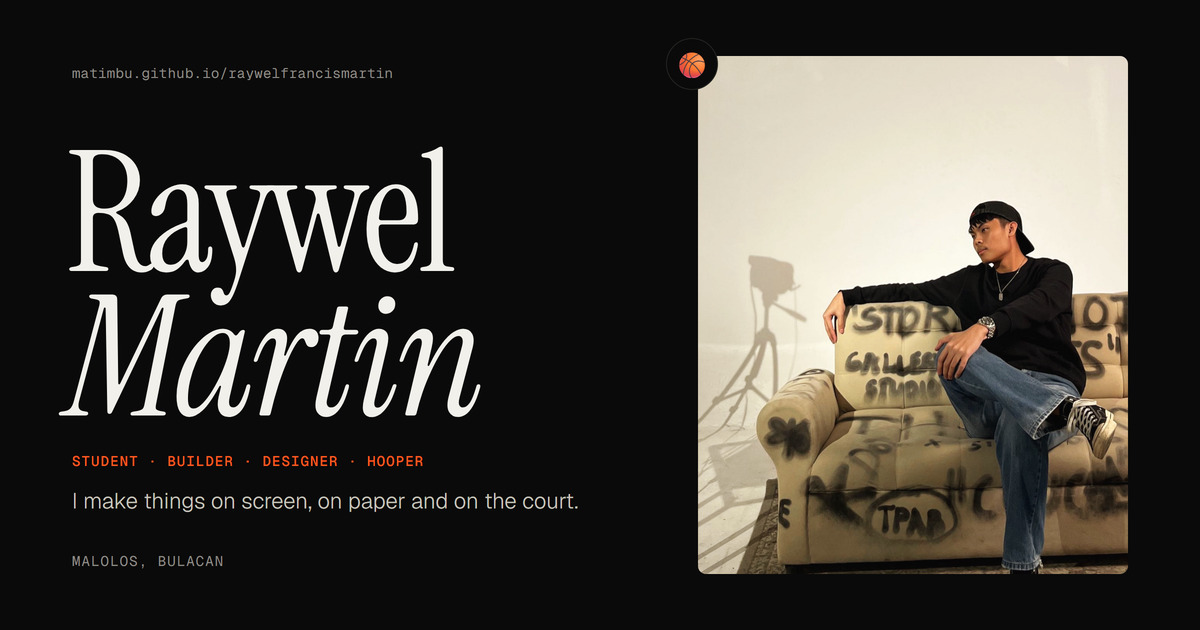
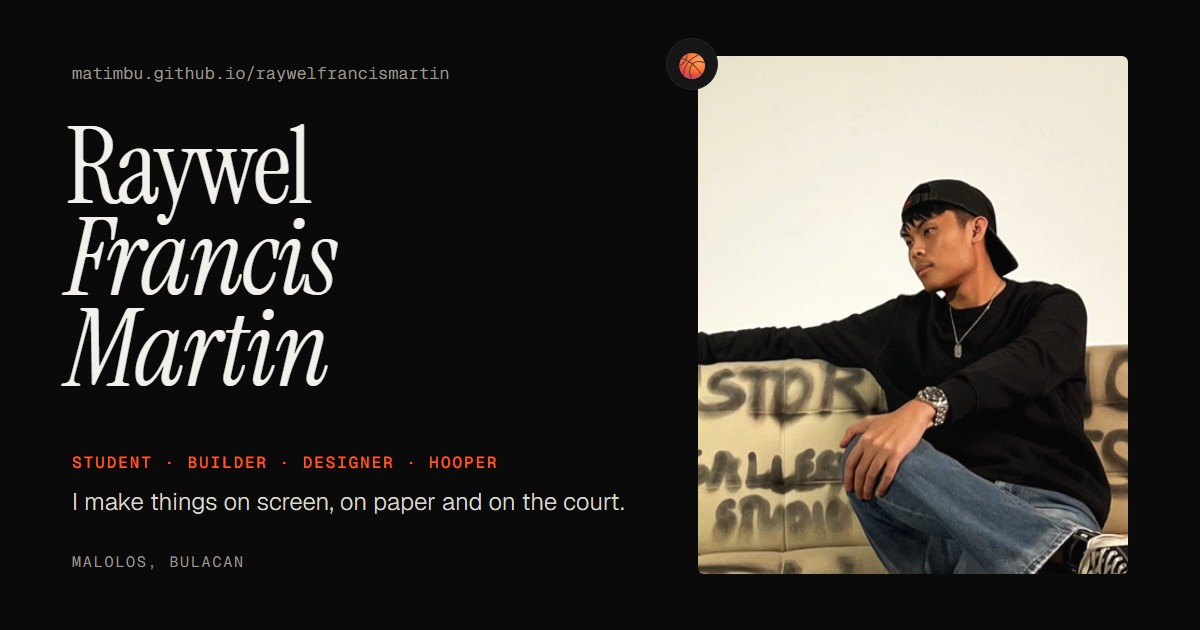
Use my full name, Raywel Francis Martin, across the site
Adds Francis to the hero (three lines, a little smaller on phones so the hero keeps its height), the page titles, link previews, the 404 page, the README, the Riot notice and my player card, and regenerates the link preview image.

diff --git a/index.html b/index.html
@@ -3,21 +3,21 @@
 <head>
   <meta charset="UTF-8">
   <meta name="viewport" content="width=device-width, initial-scale=1.0">
-  <title>Raywel Martin</title>
+  <title>Raywel Francis Martin</title>
   <meta name="description" content="Raywel Francis Martin: student, builder, designer, hooper. Crafts, hobbies, beliefs and videos.">
   <meta name="theme-color" content="#0a0a0a">
   <!-- YouTube embeds need the page address sent along (see main.js) -->
   <meta name="referrer" content="strict-origin-when-cross-origin">
   <meta property="og:type" content="website">
-  <meta property="og:title" content="Raywel Martin">
+  <meta property="og:title" content="Raywel Francis Martin">
   <meta property="og:description" content="Student, builder, designer, hooper. Crafts, hobbies, beliefs and videos.">
   <!-- Link previews (Messenger, Discord, Facebook, X...). Absolute URLs are required. -->
   <meta property="og:url" content="https://matimbu.github.io/raywelfrancismartin/">
-  <meta property="og:site_name" content="Raywel Martin">
+  <meta property="og:site_name" content="Raywel Francis Martin">
   <meta property="og:image" content="https://matimbu.github.io/raywelfrancismartin/assets/og-image.jpg">
   <meta property="og:image:width" content="1200">
   <meta property="og:image:height" content="630">
-  <meta property="og:image:alt" content="Raywel Martin's name next to a photo of him sitting on a graffiti sofa">
+  <meta property="og:image:alt" content="Raywel Francis Martin's name next to a photo of him sitting on a graffiti sofa">
   <meta name="twitter:card" content="summary_large_image">
   <link rel="canonical" href="https://matimbu.github.io/raywelfrancismartin/">
   <link rel="icon" type="image/png" sizes="32x32" href="assets/icons/favicon-32.png">
@@ -28,7 +28,7 @@
   <link rel="preconnect" href="https://fonts.gstatic.com" crossorigin>
   <link href="https://fonts.googleapis.com/css2?family=Instrument+Serif:ital@0;1&family=Geist:wght@300;400;500;700&family=Geist+Mono:wght@400;500&family=Barlow+Condensed:ital,wght@0,600;0,700;0,800;1,800&display=swap" rel="stylesheet">
   <link rel="stylesheet" href="https://cdn.jsdelivr.net/npm/lenis@1.3.26/dist/lenis.css">
-  <link rel="stylesheet" href="style.css?v=20260928-4">
+  <link rel="stylesheet" href="style.css?v=20261005-1">
   <script>
     // Old Safari (iOS 15 and older, like an iPhone 7) lacks two CSS features
     // the site uses; legacy.js rewrites the styles for it
@@ -154,8 +154,8 @@
 
   <!-- Bump ?v= on the three files below whenever they change, so visitors skip the cached copies -->
   <script src="https://cdn.jsdelivr.net/npm/lenis@1.3.26/dist/lenis.min.js"></script>
-  <script src="content.js?v=20260928-3"></script>
-  <script src="main.js?v=20260928-4"></script>
+  <script src="content.js?v=20261005-1"></script>
+  <script src="main.js?v=20261005-1"></script>
   <!-- Visitor stats: GoatCounter (no cookies). Dashboard: https://matimbu.goatcounter.com
        Open the site once with #toggle-goatcounter at the end of the address to stop
        counting your own visits in that browser. It never counts localhost. -->

diff --git a/content.js b/content.js
@@ -10,6 +10,7 @@
 
 const SITE = {
   firstName: "Raywel",
+  middleName: "Francis",
   lastName: "Martin",
   fullName: "Raywel Francis Martin",
   initials: "RFM",
@@ -173,7 +174,7 @@ const SITE = {
         pos: "My player", text: "Me", note: "the Court's Coder",
         image: "assets/five/raywel-jacket.webp", alt: "Me in sunglasses, holding my custom RAYWEL jacket at a clothing shop",
         card: {
-          style: "career", ovr: 95, tier: "G.O.A.T.", label: "G.O.A.T. Build", name: "Raywel Martin", pos: "PF",
+          style: "career", ovr: 95, tier: "G.O.A.T.", label: "G.O.A.T. Build", name: "Raywel Francis Martin", pos: "PF",
           player: "Yao Ming", // my MyPLAYER's name (and what they call me on the court)
           face: "assets/five/raywel-mycareer.webp",
           archetype: "2-Way Middy-Slashing Cleaner",
@@ -338,7 +339,7 @@ const SITE = {
       soundSwitch: true, // an on/off switch for the wall's sounds
       intro: "Sova main. Some of the clips are on my YouTube and TikTok.",
       art: { src: "assets/valorant/sova.webp", alt: "Official art of Sova, the Valorant agent", glow: "#355285", lockIn: true },
-      notice: "\u201cRaywel Martin\u201d (this site) was created under Riot Games' \u201cLegal Jibber Jabber\u201d policy using assets owned by Riot Games. Riot Games does not endorse or sponsor this project.",
+      notice: "\u201cRaywel Francis Martin\u201d (this site) was created under Riot Games' \u201cLegal Jibber Jabber\u201d policy using assets owned by Riot Games. Riot Games does not endorse or sponsor this project.",
       specs: [
         { label: "Crosshair", value: "0;p;0;c;1;s;1;P;u;000000FF;h;0;f;0;m;1;0l;2;0v;2;0o;0;0a;1;0f;0;1b;0;A;c;8;d;1;b;1;0b;0;1b;0;S;d;0", copy: true },
         { label: "Sens", value: "0.37" },

diff --git a/watch/index.html b/watch/index.html
@@ -3,17 +3,17 @@
 <head>
   <meta charset="UTF-8">
   <meta name="viewport" content="width=device-width, initial-scale=1.0">
-  <title>Watch Me · Raywel Martin</title>
+  <title>Watch Me · Raywel Francis Martin</title>
   <meta name="description" content="Memory videos with friends, plus Valorant clips. @Jenduks on YouTube and TikTok.">
   <meta name="theme-color" content="#0a0a0a">
   <!-- This page only exists so a shared link to the videos gets its own
        preview card. People are sent straight on to the Watch Me section. -->
   <meta name="robots" content="noindex">
   <meta property="og:type" content="website">
-  <meta property="og:title" content="Watch Me · Raywel Martin">
+  <meta property="og:title" content="Watch Me · Raywel Francis Martin">
   <meta property="og:description" content="Memory videos with friends, plus Valorant clips. @Jenduks on YouTube and TikTok.">
   <meta property="og:url" content="https://matimbu.github.io/raywelfrancismartin/watch/">
-  <meta property="og:site_name" content="Raywel Martin">
+  <meta property="og:site_name" content="Raywel Francis Martin">
   <meta property="og:image" content="https://matimbu.github.io/raywelfrancismartin/assets/og-watch.jpg">
   <meta property="og:image:width" content="1200">
   <meta property="og:image:height" content="630">

diff --git a/404.html b/404.html
@@ -3,7 +3,7 @@
 <head>
   <meta charset="UTF-8">
   <meta name="viewport" content="width=device-width, initial-scale=1.0">
-  <title>Airball · Raywel Martin</title>
+  <title>Airball · Raywel Francis Martin</title>
   <meta name="robots" content="noindex">
   <meta name="theme-color" content="#0a0a0a">
   <!-- GitHub Pages shows this page for any missing address, at any depth, so
@@ -302,7 +302,7 @@
   </style>
 </head>
 <body>
-  <header><a class="brand mono home-link" href="/raywelfrancismartin/">Raywel Martin</a></header>
+  <header><a class="brand mono home-link" href="/raywelfrancismartin/">Raywel Francis Martin</a></header>
   <main>
     <p class="eyebrow mono">404 — Page not found</p>
     <h1>Air<em>ball.</em><span class="ball" aria-hidden="true">🏀</span></h1>

diff --git a/main.js b/main.js
@@ -353,7 +353,7 @@ if (!reduceMotion && /^\d{4}$/.test(sinceYear) && sinceYear < thisYear) {
   yearNode.classList.add("year-roll");
   playOnView(yearNode, "rolled", 0.9);
 }
-document.title = `${SITE.firstName} ${SITE.lastName}`;
+document.title = SITE.fullName;
 
 const portfolioLink = $("portfolioLink");
 if (SITE.portfolio) portfolioLink.href = SITE.portfolio;
@@ -501,7 +501,7 @@ function buildName(node, lines) {
     node.appendChild(lineEl);
   });
 }
-buildName($("heroName"), [SITE.firstName, SITE.lastName]);
+buildName($("heroName"), [SITE.firstName, SITE.middleName, SITE.lastName].filter(Boolean));
 
 const roles = $("roles");
 const statement = $("statement");

diff --git a/style.css b/style.css
@@ -4496,7 +4496,8 @@ button.craft-row {
   .floater-badge { width: 32px; height: 32px; font-size: 17px; top: -12px; right: -12px; }
   .floater:nth-child(3) .floater-badge { width: 26px; height: 26px; font-size: 13px; top: -10px; right: -10px; }
   .name-line + .name-line { padding-left: 0.3em; }
-  .hero-name { font-size: clamp(88px, 24vw, 140px); }
+  /* three lines (Raywel / Francis / Martin), so a touch smaller to keep the old height */
+  .hero-name { font-size: clamp(64px, 18.5vw, 118px); }
   .roles { letter-spacing: 0.14em; }
   .scroll-hint { display: none; }
 }

diff --git a/README.md b/README.md
@@ -1,4 +1,4 @@
-# Raywel Martin — off the clock
+# Raywel Francis Martin — off the clock
 
 ### 🔗 [matimbu.github.io/raywelfrancismartin](https://matimbu.github.io/raywelfrancismartin/)
 
